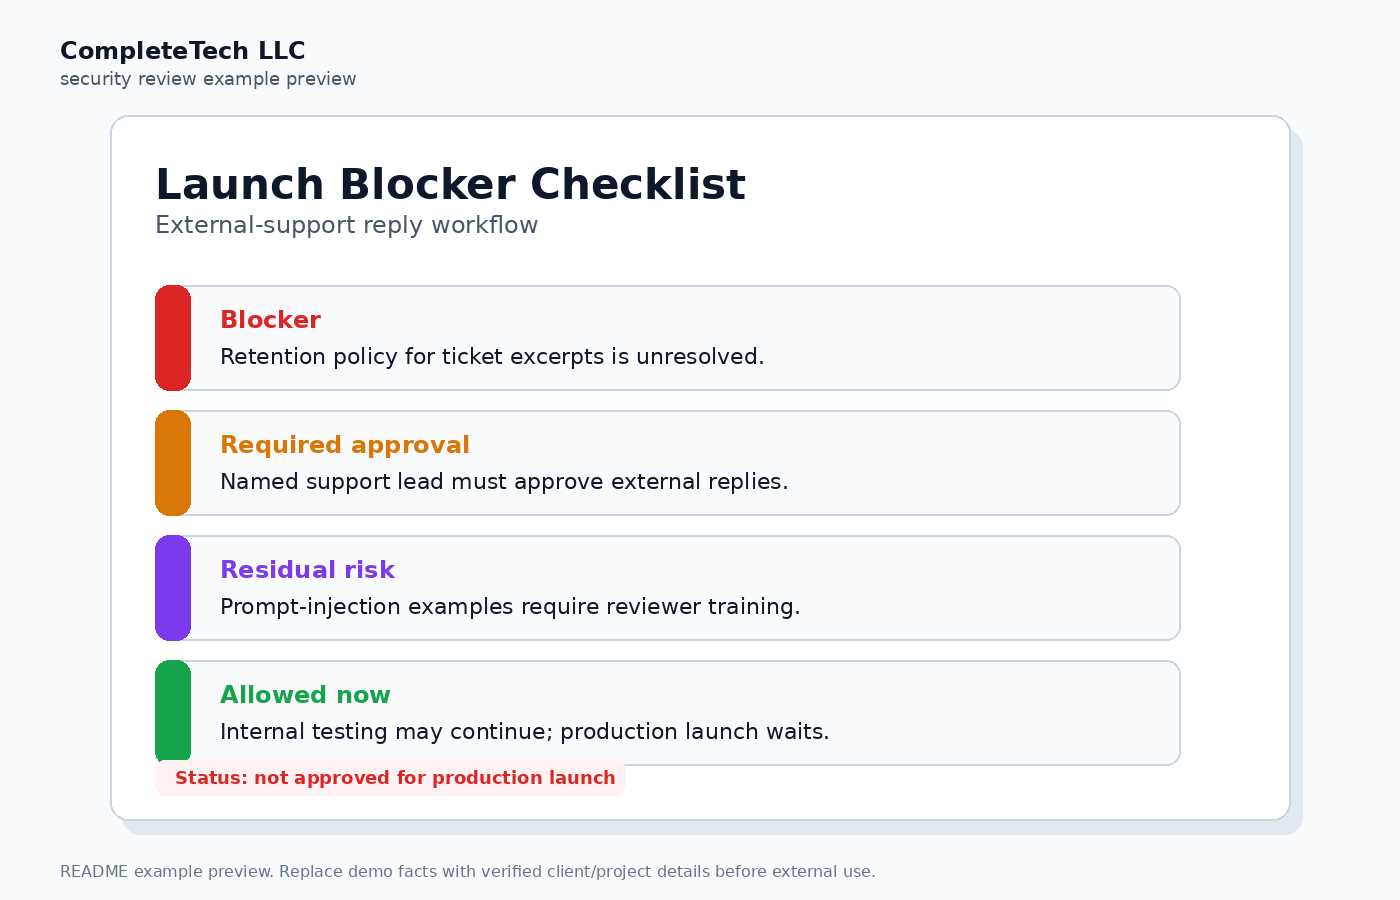
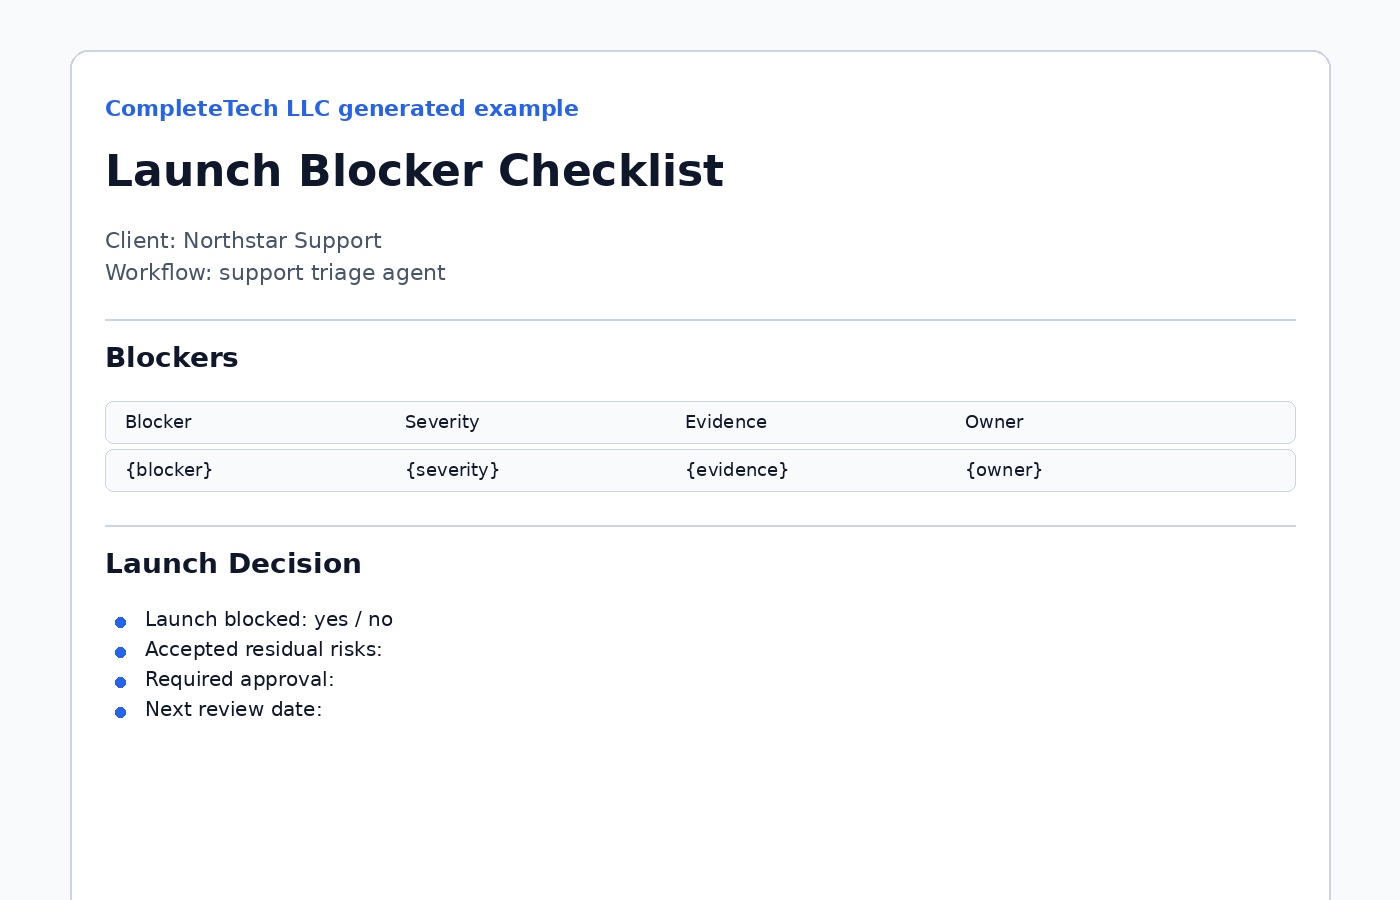
Use generated artifact previews in README

diff --git a/README.md b/README.md
@@ -73,6 +73,8 @@ Rendered artifacts are drafts. Replace placeholders with verified workflow, data
 
 ![Launch blocker review preview](assets/examples/example.png)
 
+Preview converted from generated artifact: [example.md](assets/examples/example.md).
+
 **Launch blocker review: External-support reply workflow**
 
 ```bash
@@ -82,7 +84,8 @@ python3 scripts/render_security_review.py \
   --var workflow="support triage agent" \
   --var external_action="drafting customer-facing replies for human approval" \
   --var data_classification="customer support tickets with account context" \
-  --var approval_gate="support lead approval required before send"
+  --var approval_gate="support lead approval required before send" \
+  > assets/examples/example.md
 ```
 
 Example review outcome:

diff --git a/assets/examples/example.md b/assets/examples/example.md
@@ -1,0 +1,17 @@
+# Launch Blocker Checklist
+
+Client: Northstar Support
+Workflow: support triage agent
+
+## Blockers
+
+| Blocker | Severity | Evidence | Owner | Required Resolution |
+| --- | --- | --- | --- | --- |
+| {blocker} | {severity} | {evidence} | {owner} | {resolution} |
+
+## Launch Decision
+
+- Launch blocked: yes / no
+- Accepted residual risks:
+- Required approval:
+- Next review date:
